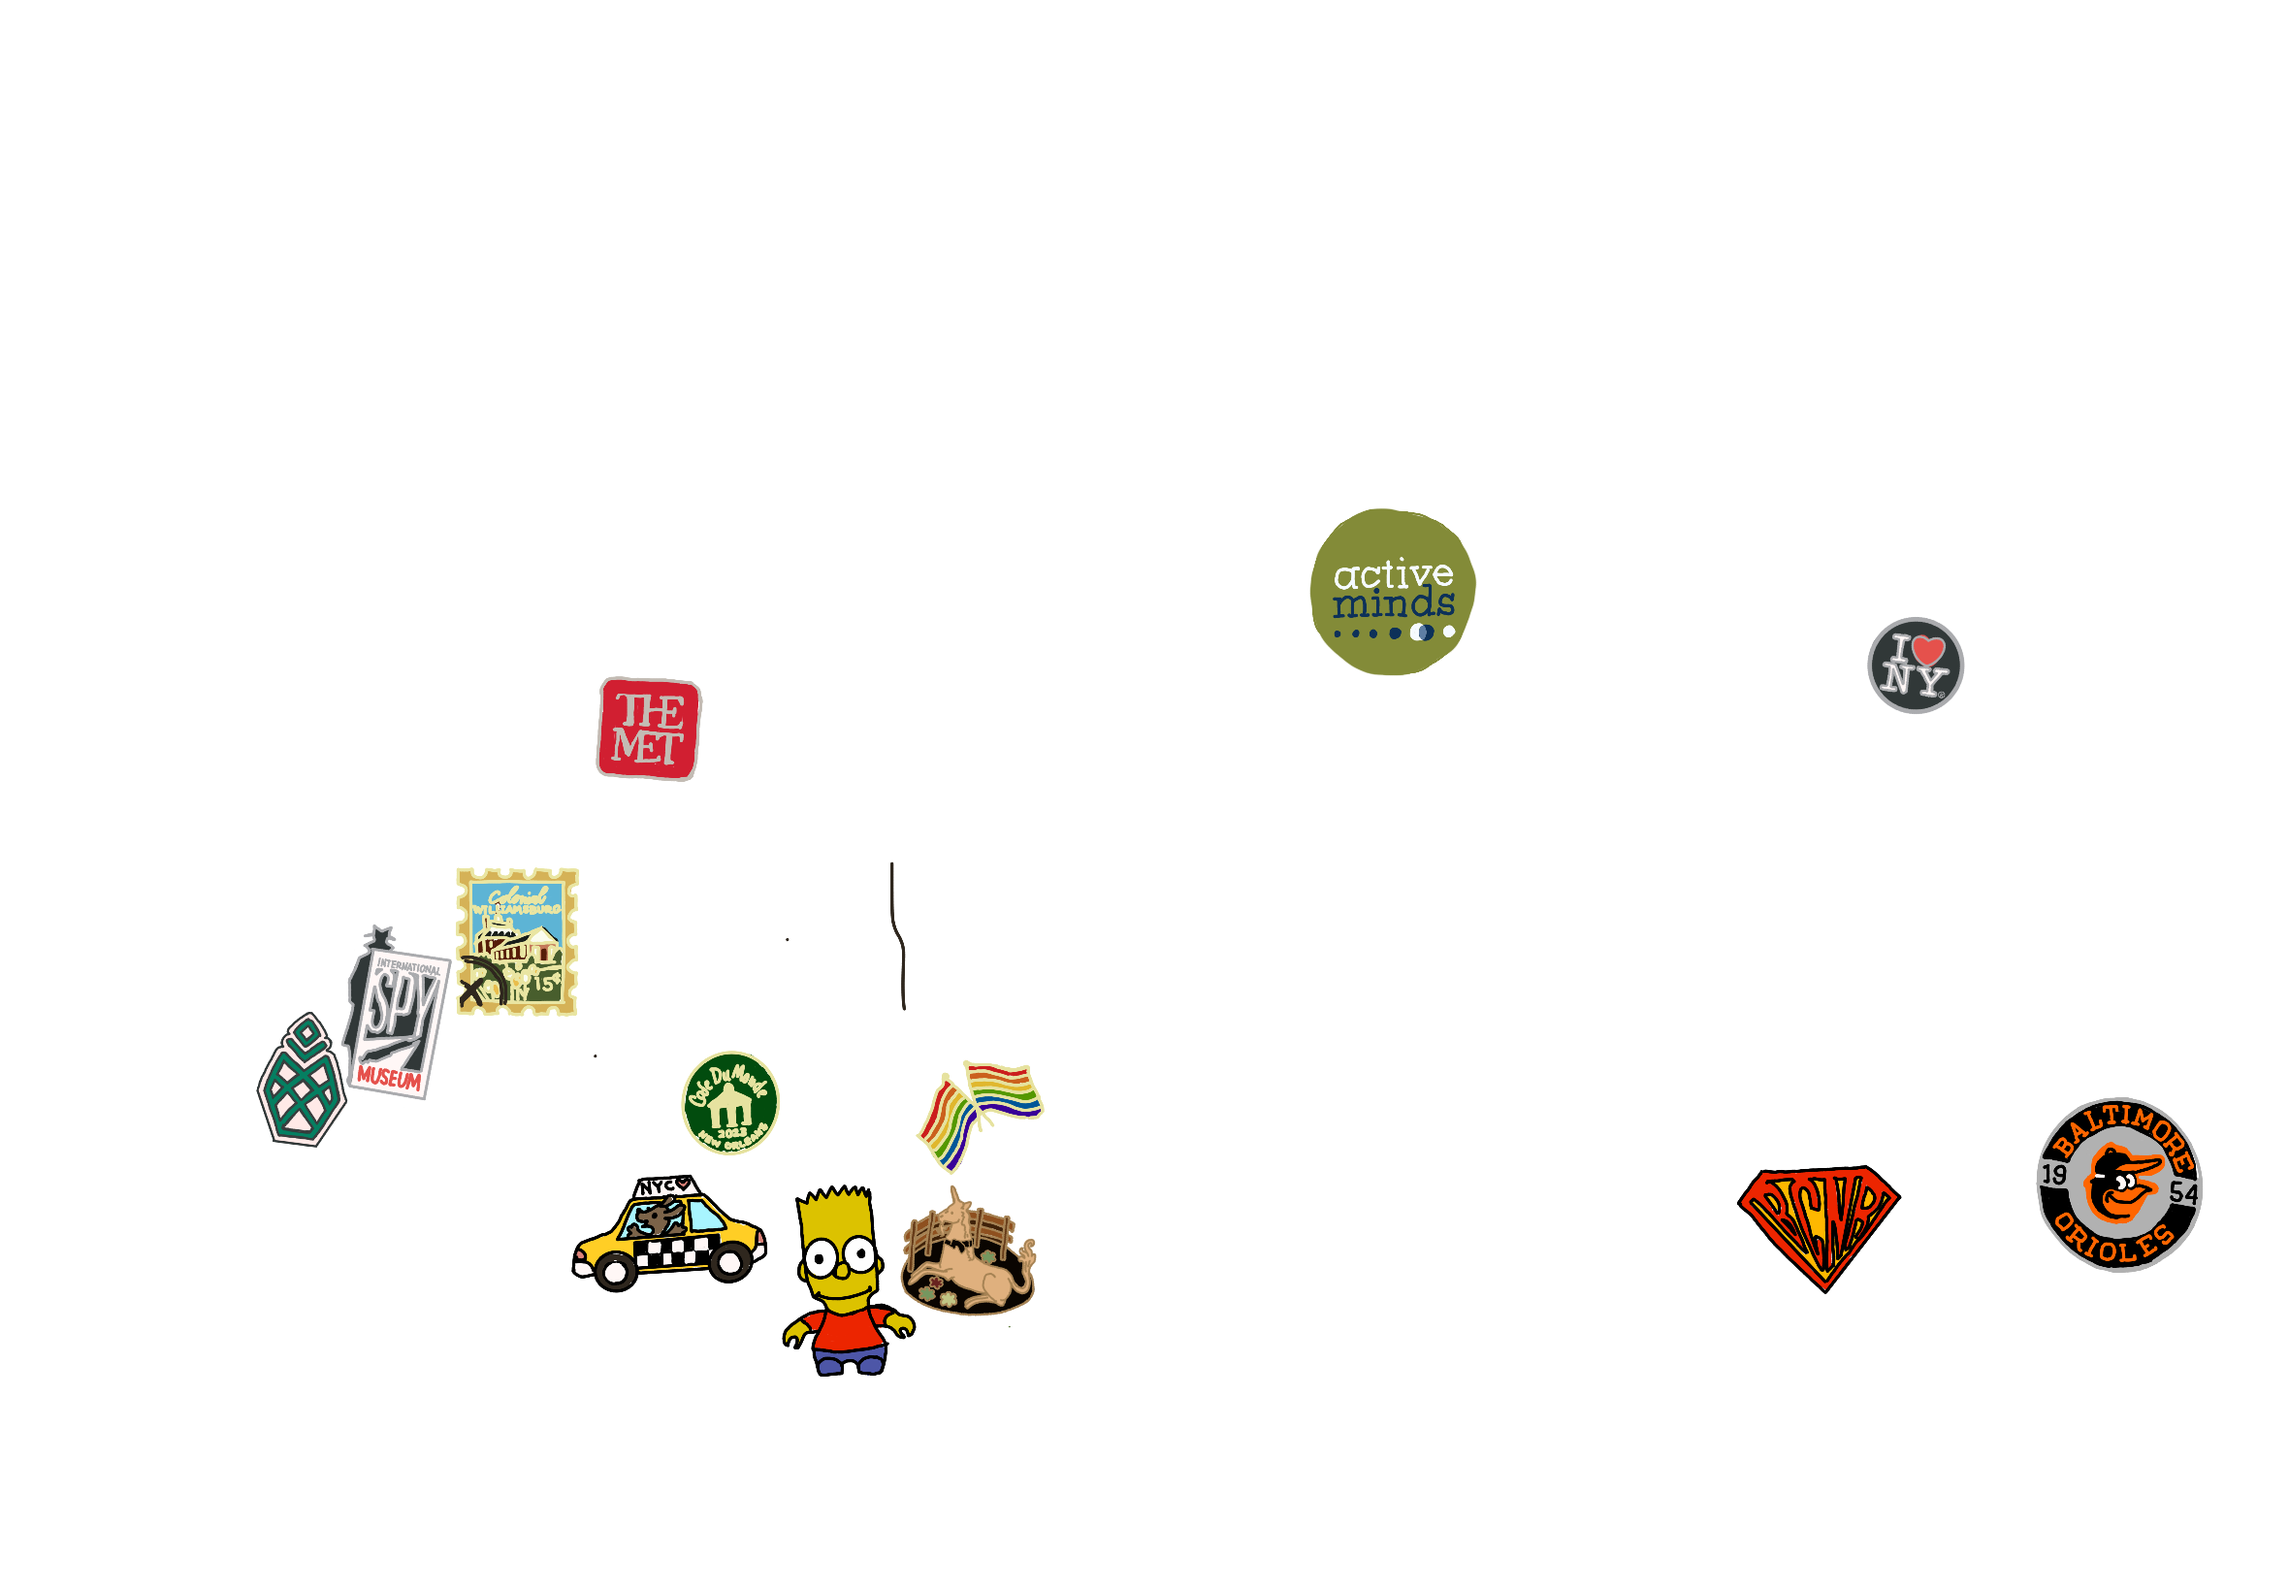
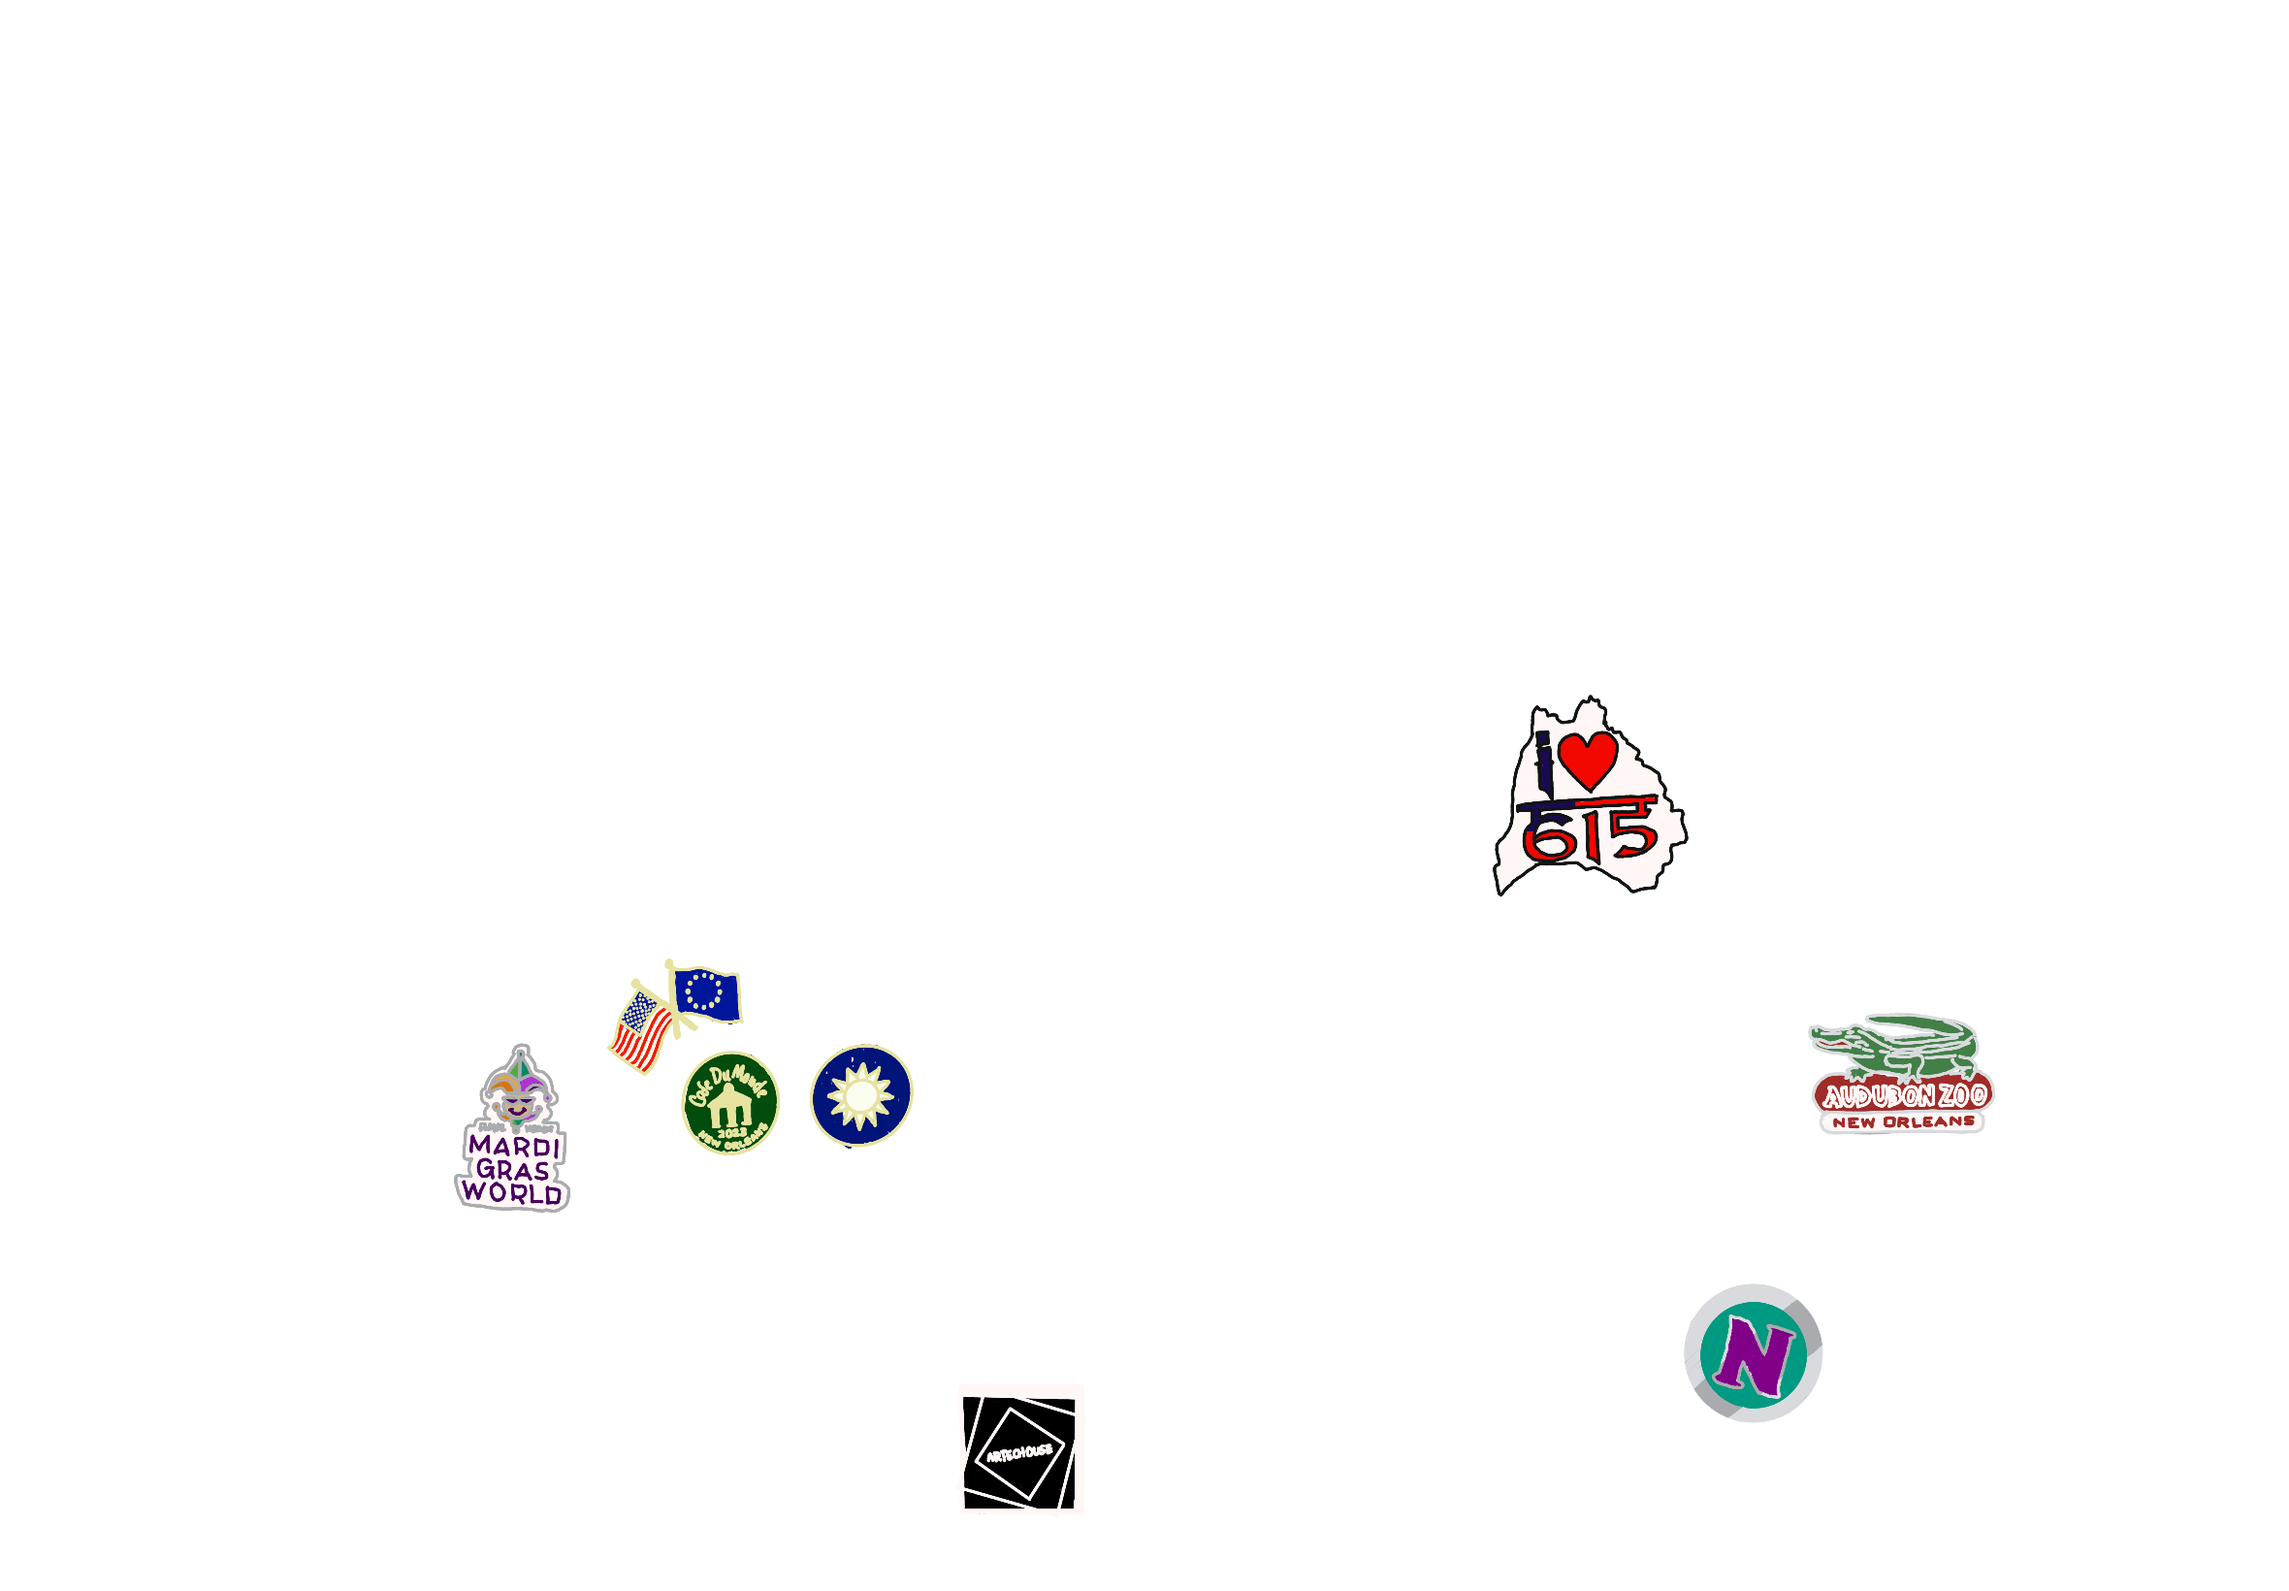
add new  pins

diff --git a/index.html b/index.html
@@ -7,56 +7,84 @@
 <body>
     <div class="pinboard" ondrop="dropHandler(event)" ondragover="dragoverHandler(event)">
 
-        <div class="pin" style="left: 1098.5px; top: 238.5px; width: 140px;">
-            <img id="img1" src="active minds.PNG" alt="Active Minds" draggable="true" ondragstart="dragstartHandler(event)" width=140px>
+        <div class="pin" style="left: 1098.5px; top: 138.5px; width: 140px;">
+            <img id="ActiveMinds" src="active minds.PNG" alt="Active Minds" draggable="true" ondragstart="dragstartHandler(event)" width=140px>
         </div>
         
-        <div class="pin" style="left: 656px; top: 805px; width: 111px;">
-            <img id="img1" src="bart.PNG" alt="Bart" draggable="true" ondragstart="dragstartHandler(event)" width=111px>
+        <div class="pin" style="left: 656px; top: 705px; width: 111px;">
+            <img id="Bart" src="bart.PNG" alt="Bart" draggable="true" ondragstart="dragstartHandler(event)" width=111px>
         </div>
 
-        <div class="pin" style="left: 1455.5px; top: 788.5px; width: 140px;">
-            <img id="img1" src="bcnr.PNG" alt="Black Country, New Road" draggable="true" ondragstart="dragstartHandler(event)" width=140px>
+        <div class="pin" style="left: 1455.5px; top: 688.5px; width: 140px;">
+            <img id="BCNR" src="bcnr.PNG" alt="Black Country, New Road" draggable="true" ondragstart="dragstartHandler(event)" width=140px>
         </div>
 
-        <div class="pin" style="left: 569.5px; top: 691.5px; width: 85px;">
-            <img id="img1" src="cafe du monde.PNG" alt="Cafe Du Monde" draggable="true" ondragstart="dragstartHandler(event)" width=85px>
+        <div class="pin" style="left: 569.5px; top: 591.5px; width: 85px;">
+            <img id="CafeDuMonde" src="cafe du monde.PNG" alt="Cafe Du Monde" draggable="true" ondragstart="dragstartHandler(event)" width=85px>
         </div>
 
-        <div class="pin" style="left: 212.5px; top: 660.5px; width: 80px;">
-            <img id="img1" src="cheekwood.PNG" alt="Cheekwood" draggable="true" ondragstart="dragstartHandler(event)" width=80px>
+        <div class="pin" style="left: 212.5px; top: 560.5px; width: 80px;">
+            <img id="Cheekwood" src="cheekwood.PNG" alt="Cheekwood" draggable="true" ondragstart="dragstartHandler(event)" width=80px>
         </div>
 
-        <div class="pin" style="left: 477.5px; top: 795.5px; width: 165px;">
-            <img id="img1" src="dog museum.PNG" alt="Dog Museum" draggable="true" ondragstart="dragstartHandler(event)" width=165px>
+        <div class="pin" style="left: 477.5px; top: 695.5px; width: 165px;">
+            <img id="DogMuseum" src="dog museum.PNG" alt="Dog Museum" draggable="true" ondragstart="dragstartHandler(event)" width=165px>
         </div>
 
-        <div class="pin" style="left: 1564.5px; top: 327px; width: 111px;">
-            <img id="img1" src="i heart ny.PNG" alt="I Heart NY" draggable="true" ondragstart="dragstartHandler(event)" width=85px>
+        <div class="pin" style="left: 1564.5px; top: 227px; width: 111px;">
+            <img id="IHeartNY" src="i heart ny.PNG" alt="I Heart NY" draggable="true" ondragstart="dragstartHandler(event)" width=85px>
         </div>
 
-        <div class="pin" style="left: 496.5px; top: 377.5px; width: 95px;">
-            <img id="img1" src="met.png" alt="Met" draggable="true" ondragstart="dragstartHandler(event)" width=95px>
+        <div class="pin" style="left: 496.5px; top: 277.5px; width: 95px;">
+            <img id="Met" src="met.png" alt="Met" draggable="true" ondragstart="dragstartHandler(event)" width=95px>
         </div>
 
-        <div class="pin" style="left: 1700px; top: 730px; width: 150px;">
-            <img id="img1" src="orioles.png" alt="Orioles" draggable="true" ondragstart="dragstartHandler(event)" width=150px>
+        <div class="pin" style="left: 1700px; top: 630px; width: 150px;">
+            <img id="Orioles" src="orioles.png" alt="Orioles" draggable="true" ondragstart="dragstartHandler(event)" width=150px>
         </div>
 
-        <div class="pin" style="left: 765px; top: 702px; width: 111px;">
-            <img id="img1" src="pride.png" alt="Pride" draggable="true" ondragstart="dragstartHandler(event)" width=111px>
+        <div class="pin" style="left: 765px; top: 602px; width: 111px;">
+            <img id="Pride" src="pride.png" alt="Pride" draggable="true" ondragstart="dragstartHandler(event)" width=111px>
         </div>
 
-        <div class="pin" style="left: 284.5px; top: 585.5px; width: 95px;">
-            <img id="img1" src="spy museum.PNG" alt="Spy Museum" draggable="true" ondragstart="dragstartHandler(event)" width=95px>
+        <div class="pin" style="left: 284.5px; top: 485.5px; width: 95px;">
+            <img id="SpyMuseum" src="spy museum.PNG" alt="Spy Museum" draggable="true" ondragstart="dragstartHandler(event)" width=95px>
         </div>
 
-        <div class="pin" style="left: 751.5px; top: 805px; width: 120px;">
-            <img id="img1" src="unicorn.PNG" alt="Unicorn" draggable="true" ondragstart="dragstartHandler(event)" width=120px>
+        <div class="pin" style="left: 751.5px; top: 705px; width: 120px;">
+            <img id="Unicorn" src="unicorn.PNG" alt="Unicorn" draggable="true" ondragstart="dragstartHandler(event)" width=120px>
         </div>
 
-        <div class="pin" style="left: 380px; top: 535px; width: 111px;">
-            <img id="img1" src="williamsburg.PNG" alt="Williamsburg" draggable="true" ondragstart="dragstartHandler(event)" width=111px>
+        <div class="pin" style="left: 380px; top: 435px; width: 111px;">
+            <img id="Williamsburg" src="williamsburg.PNG" alt="Williamsburg" draggable="true" ondragstart="dragstartHandler(event)" width=111px>
+        </div>
+
+        <div class="pin" style="left: 1250px; top: 295px; width: 111px;">
+            <img id="615Chutney" src="615 chutney.PNG" alt="615 Chutney" draggable="true" ondragstart="dragstartHandler(event)" width=167px>
+        </div>
+
+        <div class="pin" style="left: 800.5px; top: 867px; width: 111px;">
+            <img id="Artechouse" src="artechouse.PNG" alt="Artechouse" draggable="true" ondragstart="dragstartHandler(event)" width=111px>
+        </div>
+
+        <div class="pin" style="left: 1515px; top: 560px; width: 111px;">
+            <img id="AudubonZoo" src="audubon zoo.PNG" alt="Audubon Zoo" draggable="true" ondragstart="dragstartHandler(event)" width=160px>
+        </div>
+
+        <div class="pin" style="left: 510px; top: 516px; width: 111px;">
+            <img id="EU" src="eu.PNG" alt="European Union" draggable="true" ondragstart="dragstartHandler(event)" width=115px>
+        </div>
+
+        <div class="pin" style="left: 380px; top: 586px; width: 100px;">
+            <img id="MardiGrasWorld" src="mardi gras world.PNG" alt="Mardi Gras World" draggable="true" ondragstart="dragstartHandler(event)" width=100px>
+        </div>
+
+        <div class="pin" style="left: 1410px; top: 790px; width: 120px;">
+            <img id="NGA" src="nga.PNG" alt="National Gallery of Art" draggable="true" ondragstart="dragstartHandler(event)" width=120px>
+        </div>
+
+        <div class="pin" style="left: 677px; top: 587px; width: 90px;">
+            <img id="Taiwan" src="taiwan.PNG" alt="Taiwan" draggable="true" ondragstart="dragstartHandler(event)" width=90px>
         </div>
 
         <img src="" class="pinboard">

diff --git a/style.css b/style.css
@@ -1,10 +1,11 @@
 .pinboard {
-    position: relative;
+    position: absolute;
     top: 0;
     left: 0;
-    width: 0;
-    height: 0;
+    width: 100%;
+    height: auto;
     object-fit: cover;
+    background-attachment: scroll;
     z-index: -1; /* put it behind other content */
   }
 
